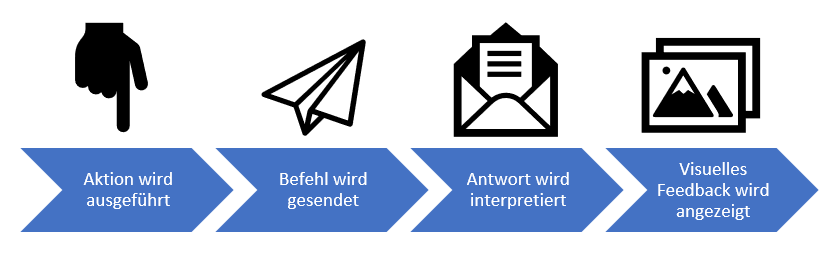
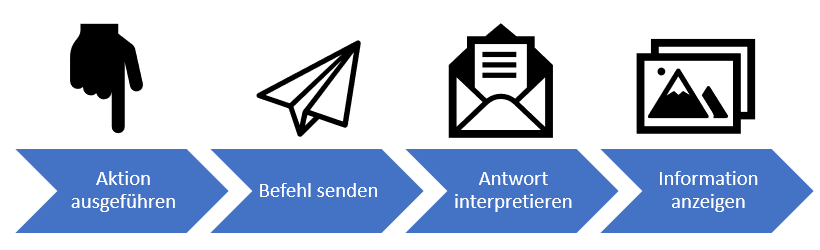
Feedback from Zakall to Konzept rfoster implemented

diff --git a/chapters/konzept/rfoster.tex b/chapters/konzept/rfoster.tex
@@ -6,22 +6,30 @@ Die Webseite wird mittels Vue-Komponenten aufgebaut werden. Eine Seite besteht a
 \begin{figure}[H]
 	\centering
 	\includegraphics[width=0.8\linewidth]{images/Webseite_hierarchie}
-	\caption[Die Hierarchie der Webseite]{Die Übersicht der Hierarchie der Webseite}
+	\caption[Hierarchie der Webseite]{Übersicht der Hierarchie der Webseite}
 	\label{fig:webseitehierachie}
 \end{figure}
 
-\subsubsection{Seite wurde nicht gefunden}
+\subsubsection{Seite nicht gefunden}
 Wird ein Link eingegeben werden, welcher nicht die Seite selbst oder eine definierte Unterseite ist, wird eine Seite geladen, bei der der Benutzer darauf hingewiesen wird, dass er keinen korrekten Link eingegeben hat.
+\begin{figure}[H]
+	\centering
+	\includegraphics[width=0.6\linewidth]{images/page_not_found}
+	\caption[Seite nicht gefunden]{Seite nicht gefunden}
+	\label{fig:pagenotfound}
+\end{figure}
+
 \subsubsection{Manager}
-Der Manager ist der Hauptbestandteil der Webseite. Er beinhaltet alle einzelnen Seiten und zeigt immer die gewünschten Seite an. In dem Manager werden auch Cookie-Einstellungen und Rechte gespeichert. Fast alle Komponenten werden dem Manager untergeordnet sein. Der Manager ist auch dafür verantwortlich sein zwischen Komponenten Daten zu senden.
+Der Manager ist der Hauptbestandteil der Webseite. Er beinhaltet alle einzelnen Seiten und zeigt immer die gewünschten Seite an. In dem Manager werden auch Cookie-Einstellungen und Rechte gespeichert. Fast alle Komponenten werden dem Manager untergeordnet sein. Der Manager ist auch dafür verantwortlich zwischen Komponenten Daten zu senden.
 
 \subsubsection{Komponenten}
-Einzelne Komponenten laden die Daten eigenständig aus dem Backend. Im Falle, dass eine Komponente Daten an eine Weitere sendet, geschieht dies über den Manager. In den jeweiligen Komponenten wird auch jeder Befehl eigenständig an das Backend gesendet. Dies sind Maßnahmen, um den Manager nicht mit Funktionen zu überladen und damit nicht unnötiger Weise Daten bei jedem Aufruf von dem Manager an die einzelnen Komponenten gesendet werden müssen.
+Einzelne Komponenten laden die Daten eigenständig aus dem Backend. Dies ist eine Maßnahme, um den Manager nicht mit Funktionen zu überladen und damit nicht Daten bei jedem Aufruf von dem Manager an die einzelnen Komponenten gesendet werden müssen.\\
+Im Falle, dass eine Komponente Daten an eine weitere Komponente sendet, wird diese Kommunikation von dem Manager übernommen.
 
 \subsubsection{Antrag-Viewer}
-Es wird eine weitere Seite vorhanden sein, auf die man durch einen Link gelangen kann. Auf dieser Seite ist es möglich, einen Antrag per ID anzeigen zu lassen. Da dieser extra Link technisch auf der selben Ebene, wie der Manager ist, wird dafür gesorgt, dass dieser extra Link dem Manager nahtlos untergeordnet ist. Der Antrag-Viewer ist nur verwendbar, sofern der Benutzer angemeldet ist und auch die Berechtigung hat, diesen Antrag zu betrachten.
+Es wird eine weitere Seite vorhanden sein, auf die man durch einen Link gelangen kann. Auf dieser Seite ist es möglich, einen Antrag per ID anzeigen zu lassen. Da dieser extra Link technisch auf der selben Ebene, wie der Manager ist, wird dafür gesorgt, dass dieser extra Link dem Manager nahtlos untergeordnet ist. Der Antrag-Viewer ist nur verwendbar, sofern der Benutzer angemeldet ist und auch die Berechtigung hat diesen Antrag zu betrachten.
 \\\\
-Wird in den Parameter des Links bereits spezifiziert, welcher Antrag geöffnet werden soll, wird nach der Anmeldung dem Benutzer dieser Antrag angezeigt. Sollte der Benutzer keine Berechtigungen besitzen diesen Antrag zu betrachten, wird eine Fehlermeldung ausgegeben.
+Wird in den Parametern des Links bereits spezifiziert, welcher Antrag geöffnet werden soll, wird nach der Anmeldung dem Benutzer dieser Antrag angezeigt. Es können nur jene Anträge angezeigt werden, zu denen der Benutzer die erforderlichen Berechtigungen besitzt. Besitzt der Benutzer nicht die erforderlichen Berechtigungen, wird eine Fehlermeldung ausgegeben.
 
 \subsubsection{Navigation}
 Da fast alle Komponenten dem Manager untergeordnet sind, ist es auch die Verantwortung des Managers die Navigation zu steuern. Dazu gibt es eine zentrale Funktion im Manager, welche die derzeit geladene Seite verändern kann. Des Weiteren werden die benötigten Informationen geladen bzw. erstellt, welche die Komponenten benötigen.
@@ -31,12 +39,12 @@ Die Funktion zum Verändern der derzeitigen Anzeige, wird von den untergeordnete
 \subsubsection{Features}
 Es werden auch Funktionen implementiert, welche das Benützen der Webseite erleichtern.
 \\\\
-Es ist möglich, bei erneutem Laden der Webseite auf die zuletzt geöffnete Seite zu gelangen. Auch bei Beenden des Browsers merkt sich die Webseite, auf welcher Seite der Benutzer gewesen ist und lädt diese bei erneutem Aufrufen der Webseite.
+Es ist möglich bei erneutem Laden der Webseite auf die zuletzt geöffnete Seite zu gelangen. Bei Beenden des Browsers speichert die Webseite die aktuelle Seite und lädt diese bei erneutem Aufrufen der Webseite.
 \\\\
-Es ist auch möglich, zwischen den Seiten durch die Browser-Pfeile zu navigieren. Dies ist wichtig, da durch versehentliches Drücken einer falschen Komponente ein Benutzer möglichst schnell wieder auf die vorherige Seite gelangen können muss. Durch die Implementierung der Browser-Pfeile kann intuitiv auf die vorherige Seite gewechselt werden.
+Es ist auch möglich zwischen den Seiten durch die Browser-Pfeile zu navigieren. Dies ist wichtig, da durch versehentliches Drücken einer falschen Komponente ein Benutzer möglichst schnell wieder auf die vorherige Seite gelangen können muss. Durch die Implementierung der Browser-Pfeile ist es möglich intuitiv auf die vorherige Seite zu wechseln. Andere Funktionen, welche die selben Funktionalität haben, werden durch diese Implementierung auch unterstützt.
 \newpage
 \subsection{Daten laden}
-Auf den Seiten, bei denen es benötigt wird, werden über Funktionen des Frameworks dynamisch Komponenten erstellt und geladen. Der Prozess, um Daten aus dem Backend zu laden wird in folgender Grafik beschrieben:
+Auf den Seiten, bei denen es benötigt wird, werden über Funktionen des Frameworks dynamisch Komponenten erstellt und geladen. Der Prozess um Daten aus dem Backend zu laden wird in folgender Grafik beschrieben:
 \begin{figure}[H]
 	\centering
 	\includegraphics[width=0.8\linewidth]{images/Prozess_Daten_laden}
@@ -44,21 +52,28 @@ Auf den Seiten, bei denen es benötigt wird, werden über Funktionen des Framewo
 	\label{fig:prozessdatenladen}
 \end{figure}
 
-\subsubsection{Webseite wird aufgerufen}
+\subsubsection{Webseite aufrufen}
 Die Webseite wird aufgerufen und der Benutzer bekommt die Startseite angezeigt.
 
-\subsubsection{Daten werden geladen}
-Auf der Startseite der Webseite werden die neuesten Nachrichten angezeigt, welche für den Lehrer relevant sind. Hierfür müssen aus dem Backend Daten geladen werden. Dies erfolgt über eine Abfrage, welche aus dem Frontend gesendet wird.
+\subsubsection{Datenabfrage erstellen und Daten erhalten}
+Auf der Startseite der Webseite werden die neuesten Nachrichten angezeigt, welche für den Lehrer relevant sind. Hierfür müssen aus dem Backend Daten geladen werden. Dies erfolgt über eine Abfrage, welche aus dem Frontend gesendet wird. Diese werden ausgelesen und verwendet um Komponenten zu erstellen.
 
-\subsubsection{Komponenten werden erstellen}
+\subsubsection{Komponenten erstellen}
 Die geladenen Daten aus dem Backend werden mittels Einbindung der Variablen in einzelne Komponenten eingebunden.\\
 Seiten, auf denen viele gleiche Komponenten sind, werden mittels Schleifen erstellt. Diese sorgen dafür, dass nicht zu viele Komponenten auf der Seite geladen sind, wenn diese nicht gebraucht werden.
+Ein Beispiel hierfür sind die neuen Nachrichten, welche in folgender Grafik gezeigt werden:
+\begin{figure}[H]
+	\centering
+	\includegraphics[width=0.3\linewidth]{images/messages_index}
+	\caption[Neue Nachrichten]{Grafik der neuen Nachrichten}
+	\label{fig:messagesindex}
+\end{figure}
 
-\subsubsection{Komponenten werden angezeigt}
+\subsubsection{Komponenten anzeigen}
 Die bereits erstellten Komponenten werden über die Einbindung in der Webseite angezeigt. Dies kann durch einfache Implementierung bei einzelnen Komponenten sein.\\
 Durch die Schleife, können auch die Komponenten angezeigt werden. Diese ordnet alle Komponenten hintereinander an und zeigt diese an.\\
 Bei den Nachrichten kann man sich jede Nachricht als eigene Komponente vorstellen, welche jeweils erstellt und danach angezeigt wird.
-\newpage
+%\newpage
 \subsection{Befehle senden}
 Die Webseite besitzt auch einige Aktionen, die von Benutzern ausgeführt werden können. Diese müssen je nach Aktion eine neue Seite aufrufen oder einen Befehl an das Backend senden.
 
@@ -69,16 +84,16 @@ Die Webseite besitzt auch einige Aktionen, die von Benutzern ausgeführt werden 
 	\label{fig:prozessbefehlsenden}
 \end{figure}
 
-\subsubsection{Aktion wird ausgeführt}
+\subsubsection{Aktion ausführen}
 Eine Aktion wird ausgeführt, wenn z.B: auf eine Komponente gedrückt wird. Dies ruft eine Funktion auf, bei der ein Befehl erstellt wird.
 
-\subsubsection{Befehl wird gesendet}
+\subsubsection{Befehl senden}
 Der Befehl beinhaltet alle wichtigen Informationen für das Backend. Beispielsweise, falls eine neue Nachricht gelöscht werden soll, wird die ID der Nachricht mitgesendet.
 
-\subsubsection{Antwort wird interpretiert}
+\subsubsection{Antwort interpretieren}
 Sobald das Backend den Befehl ausgeführt hat, wird eine Antwort an das Frontend gesendet und wird dort interpretiert. Die Interpretation der Antwort wird durch den Status der Antwort geschehen. Der Status der Antwort beinhaltet einen Code, welcher aussagt, ob der Befehl funktioniert hat oder fehlgeschlagen ist. Sollte der Befehl fehlgeschlagen sein, so deutet der Code auf den genauen Fehlergrund hin.
 
-\subsubsection{Visuelles Feedback wird angezeigt}
+\subsubsection{Information anzeigen}
 Tritt ein Fehler auf, wird dem Benutzer dies offensichtlich mitgeteilt werden.\\
 Sollte kein Fehler aufgetreten sein, soll dem Benutzer je nach Befehl dies auf unterschiedliche Weise mitgeteilt werden.\\
 Um weiterhin das Beispiel zu nutzen: Wenn eine Nachricht gelöscht werden soll, dann wird dem Benutzer mitgeteilt, dass die Nachricht gelöscht worden ist, wenn diese Nachricht verschwindet.
